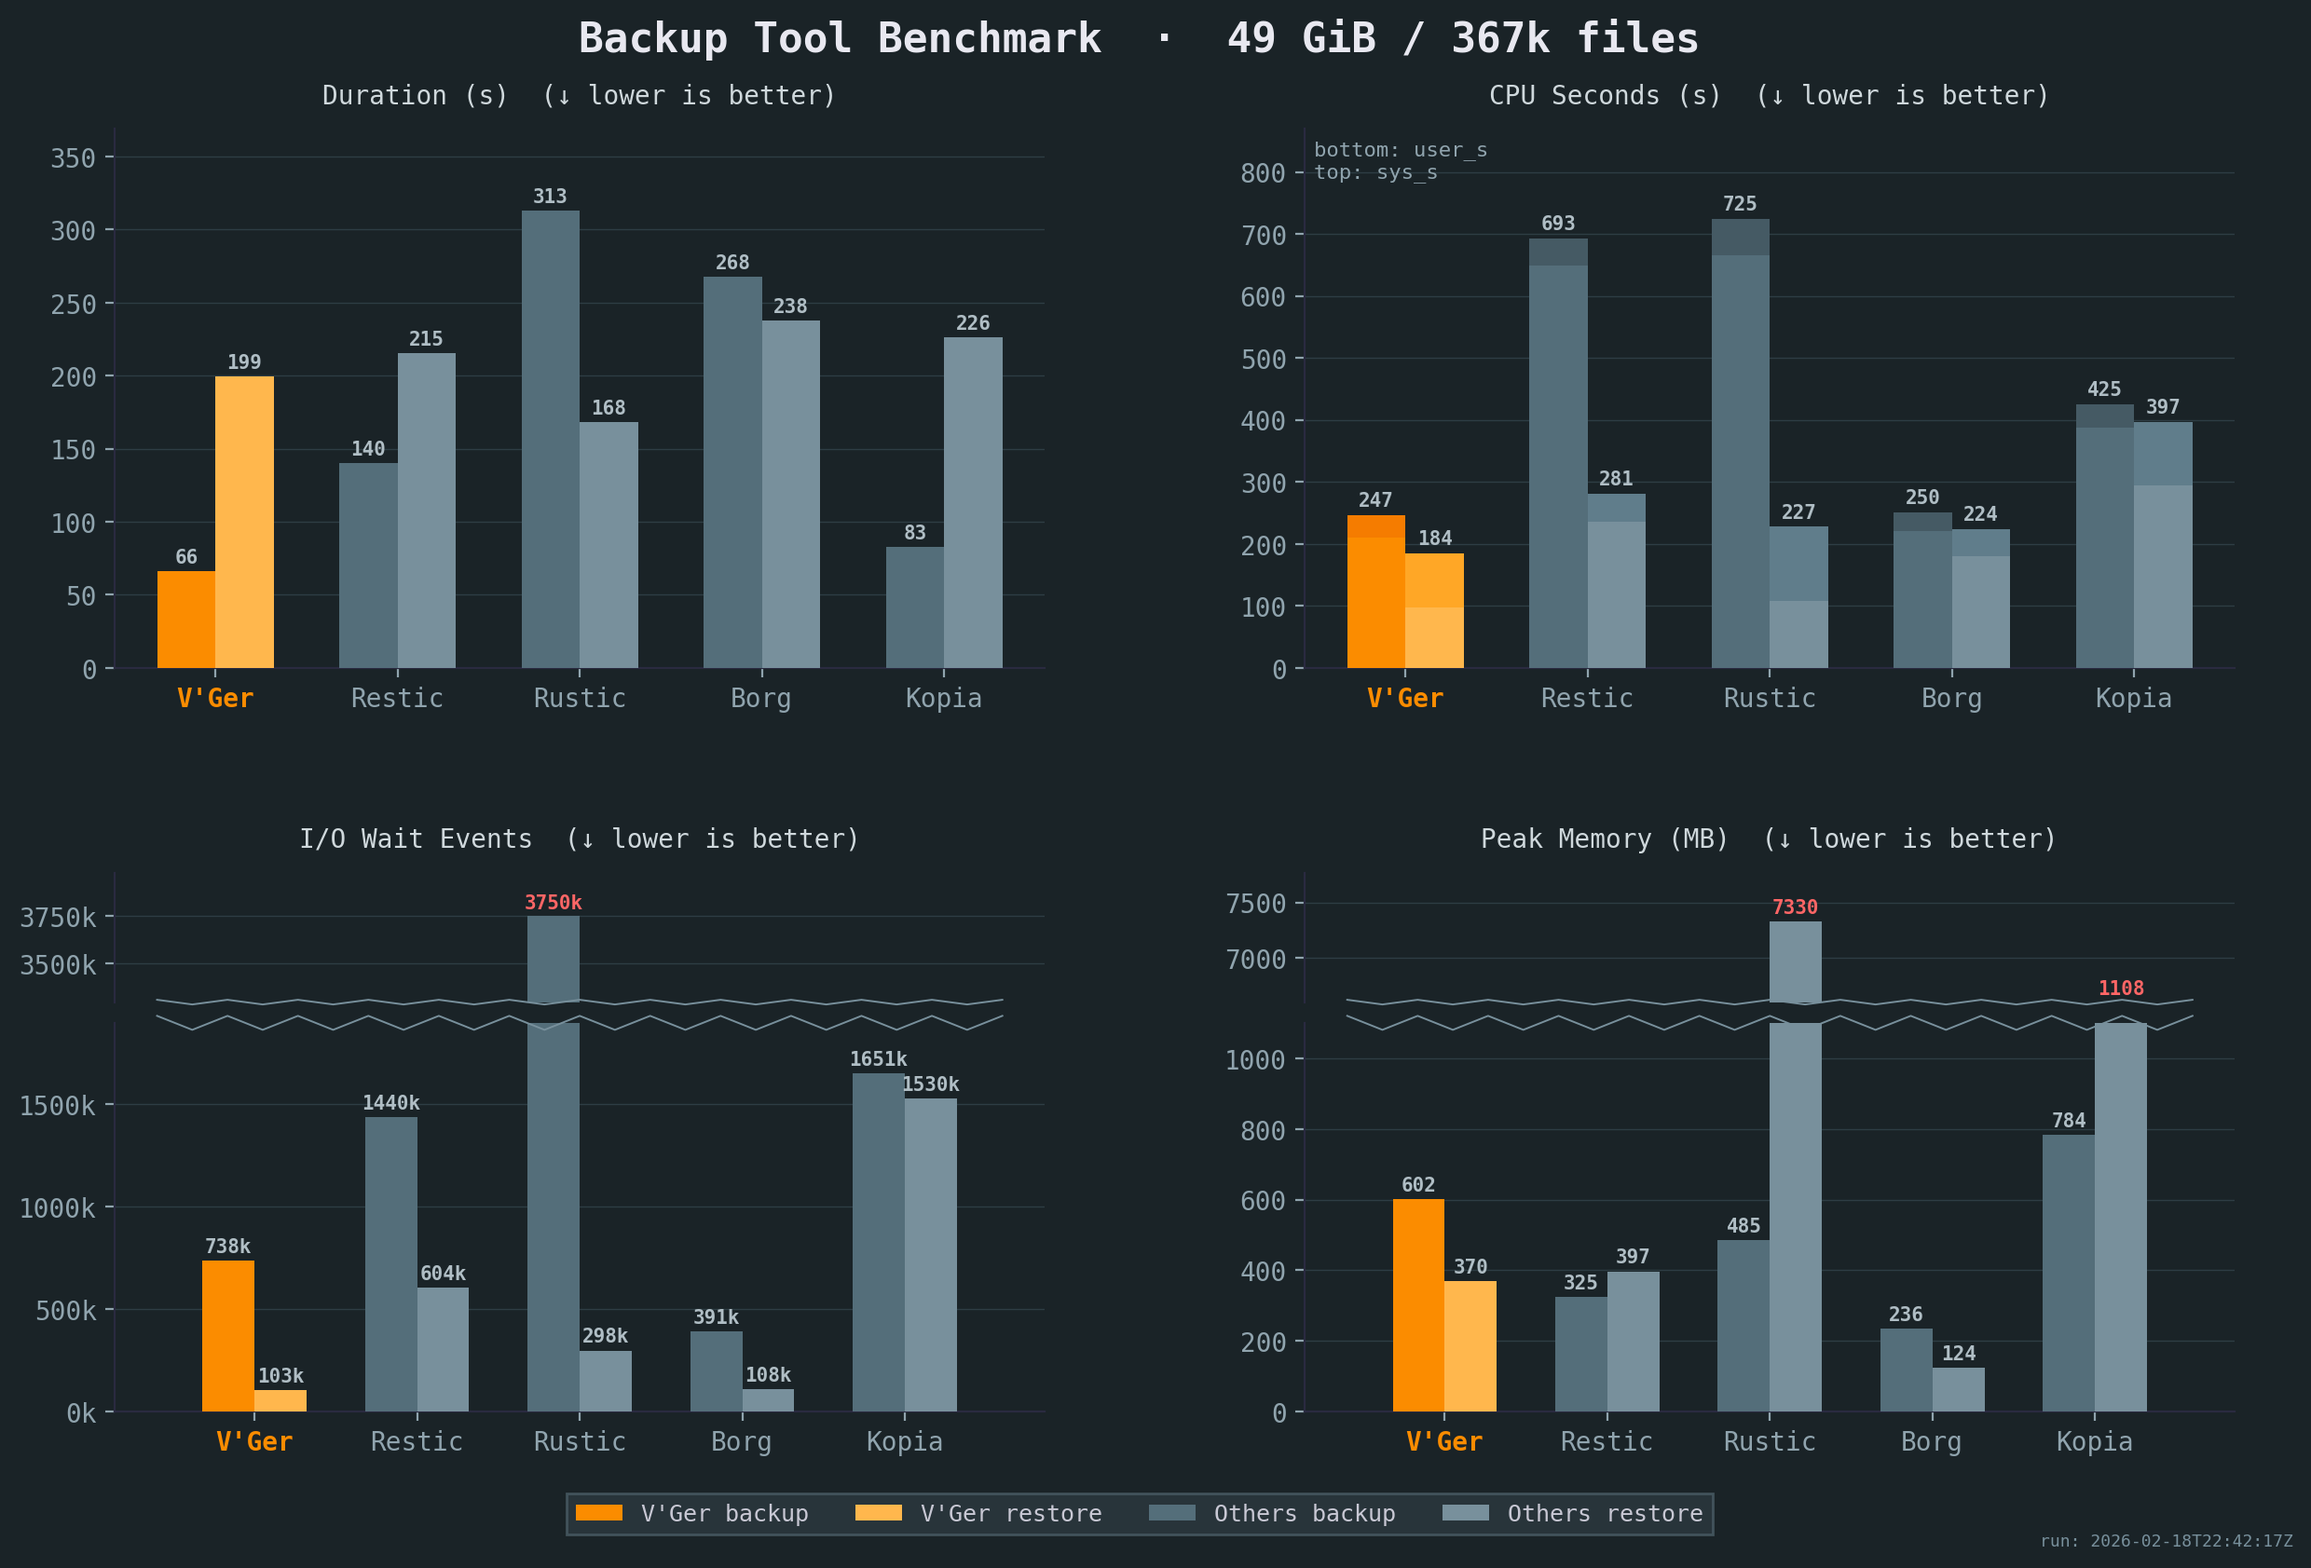
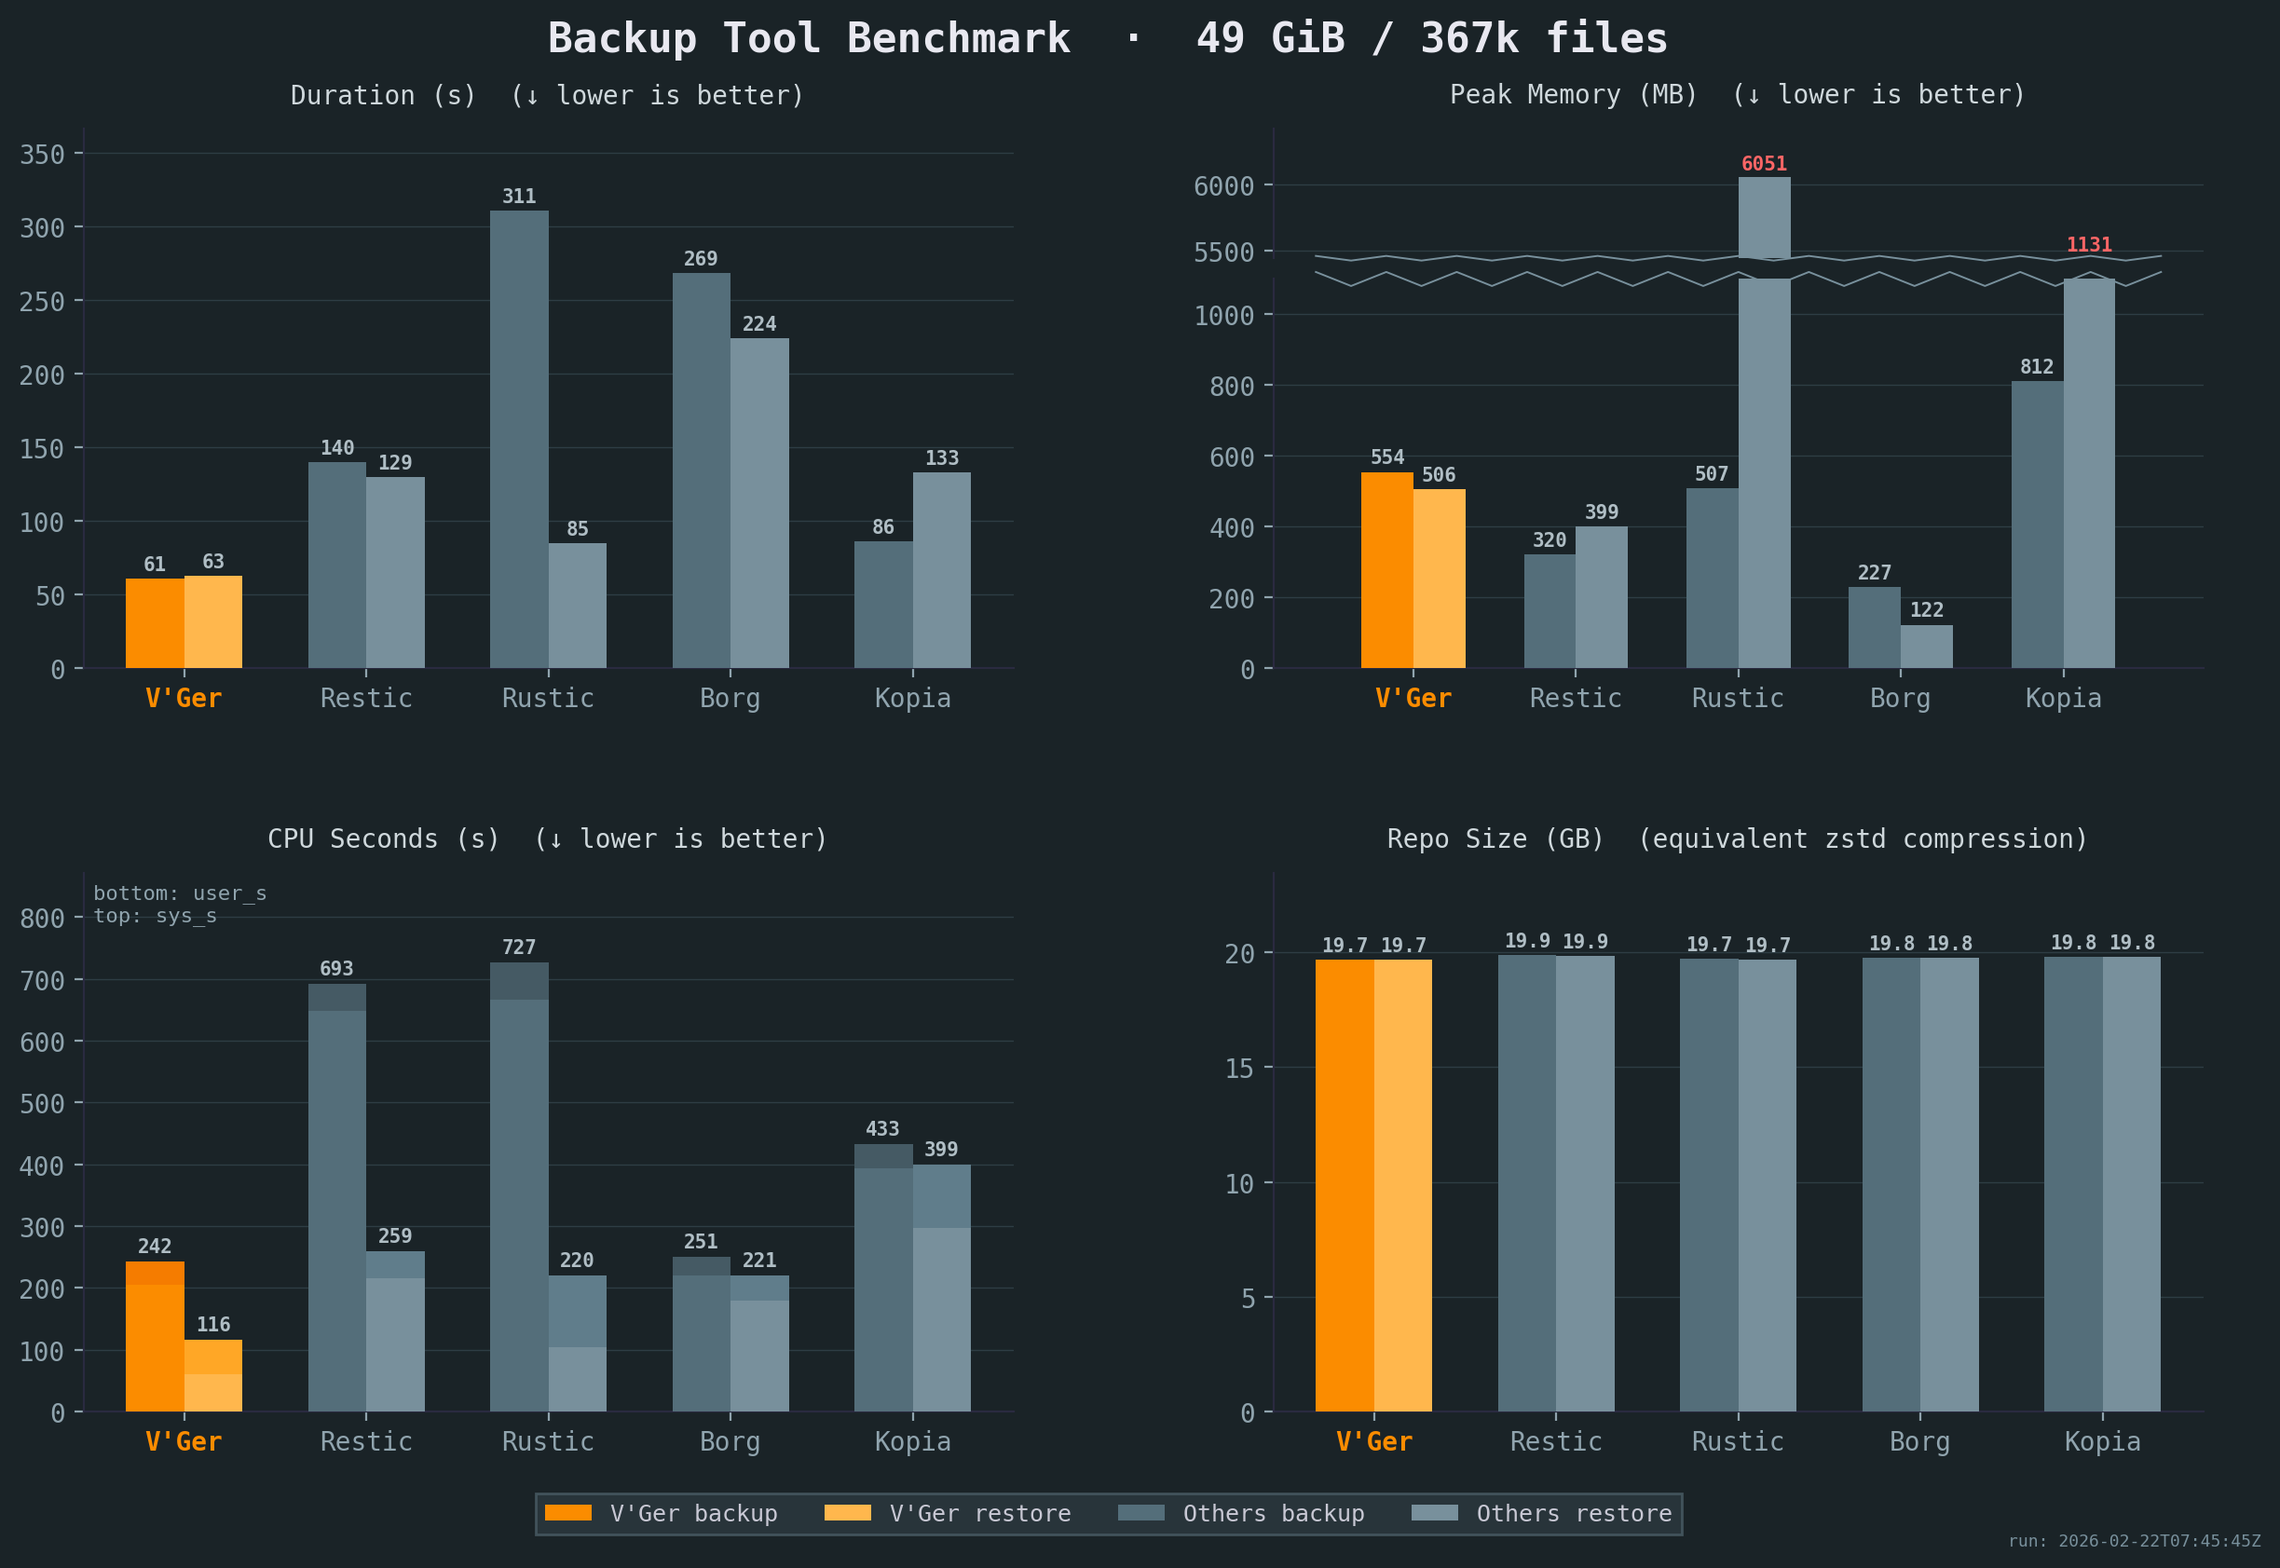
docs: update benchmark and roadmap

diff --git a/docs/src/index.md b/docs/src/index.md
@@ -8,7 +8,7 @@ V'Ger is a fast, encrypted, deduplicated backup tool written in Rust. It's cente
 
 ## Features
 
-- **Storage backends** — local filesystem, S3-compatible storage, SFTP
+- **Storage backends** — local filesystem, S3 (any compatible provider), SFTP, dedicated REST server
 - **Encryption** with AES-256-GCM or ChaCha20-Poly1305 (auto-selected) and Argon2id key derivation
 - **YAML-based configuration** with multiple repositories, hooks, and command dumps for monitoring and database backups
 - **Deduplication** via FastCDC content-defined chunking with a memory-optimized engine (tiered dedup index + mmap-backed pack assembly)
@@ -17,15 +17,16 @@ V'Ger is a fast, encrypted, deduplicated backup tool written in Rust. It's cente
 - **REST server** with append-only enforcement, quotas, and server-side compaction
 - **Built-in scheduling** via `vger daemon` — runs backup cycles on a configurable interval (no cron needed)
 - **Rate limiting** for CPU, disk I/O, and network bandwidth
+- **Cross-platform** — Linux, macOS, and Windows
 
 
 ## Benchmarks
 
-V'Ger leads in both speed and CPU efficiency, while maintaining competitive memory usage.
+V'Ger is the fastest tool for both backup and restore, with the lowest CPU cost, while maintaining competitive memory usage.
 
-![Backup Tool Benchmark](images/benchmark.summary.png)
+[![Backup Tool Benchmark](images/benchmark.summary.png)](images/benchmark.summary.png)
 
-<small>All benchmarks were run on the same idle Intel i7-6700 CPU @ 3.40GHz machine with 2x Samsung PM981 NVMe drives. Compression settings were chosen to keep resulting repository sizes comparable. The sample corpus is a mix of small and large files with varying compressibility. See our [benchmark script](https://github.com/borgbase/vger/tree/main/scripts) for full details.</small>
+<small>All benchmarks were run 5x on the same idle Intel i7-6700 CPU @ 3.40GHz machine with 2x Samsung PM981 NVMe drives, with results averaged across all runs. Compression settings were chosen to keep resulting repository sizes comparable. The sample corpus is a mix of small and large files with varying compressibility. See [detailed results](images/summary.json) or our [benchmark script](https://github.com/borgbase/vger/tree/main/scripts) for full details.</small>
 
 
 ## Comparison

diff --git a/README.md b/README.md
@@ -12,7 +12,7 @@ Inspired by [BorgBackup](https://github.com/borgbackup/borg/), [Borgmatic](https
 
 ## Features
 
-- **Storage backends** — local filesystem, S3-compatible storage, SFTP
+- **Storage backends** — local filesystem, S3 (any compatible provider), SFTP, dedicated REST server
 - **Encryption** with AES-256-GCM or ChaCha20-Poly1305 (auto-selected) and Argon2id key derivation
 - **YAML-based configuration** with multiple repositories, hooks, and command dumps for monitoring and database backups
 - **Deduplication** via FastCDC content-defined chunking with a memory-optimized engine (tiered dedup index + mmap-backed pack assembly)
@@ -21,6 +21,7 @@ Inspired by [BorgBackup](https://github.com/borgbackup/borg/), [Borgmatic](https
 - **REST server** with append-only enforcement, quotas, and server-side compaction
 - **Built-in scheduling** via `vger daemon` — runs backup cycles on a configurable interval (no cron needed)
 - **Rate limiting** for CPU, disk I/O, and network bandwidth
+- **Cross-platform** — Linux, macOS, and Windows
 
 
 ## Benchmarks

diff --git a/docs/src/roadmap.md b/docs/src/roadmap.md
@@ -33,6 +33,7 @@
 
 | Feature | Description | Priority |
 |---------|-------------|----------|
+| **GUI Config Editing** | Allow editing the YAML config in the GUI | High |
 | **Snapshot filtering** | By host, tag, path, date ranges | Medium |
 | **Async I/O** | Non-blocking storage operations | Medium |
 | **Metrics** | Prometheus/OpenTelemetry | Low |
